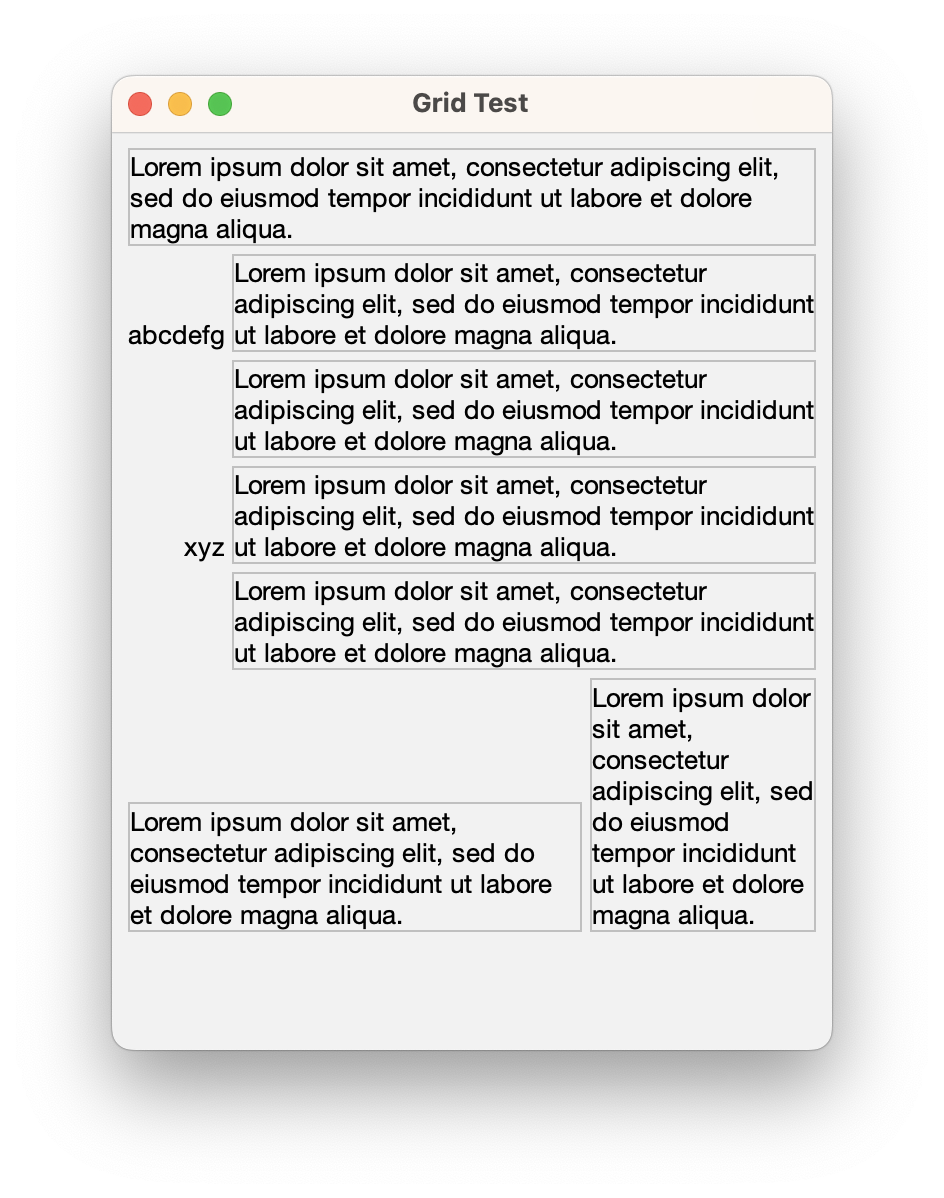
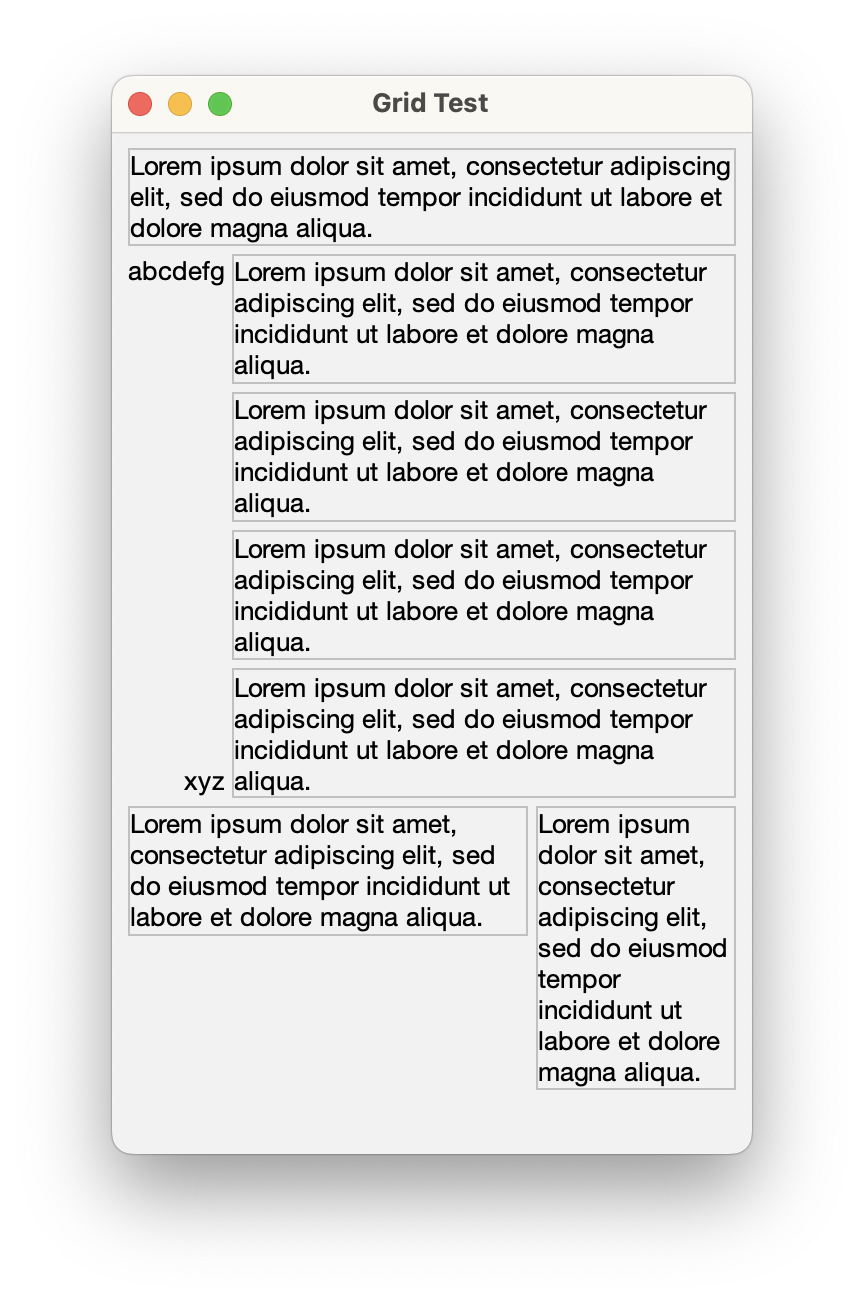
Update grid example.

Changed region(s): [[0.0938, 0.0618, 0.9062, 0.8957]]

diff --git a/sierra-test/src/main/java/org/httprpc/sierra/GridTest.java b/sierra-test/src/main/java/org/httprpc/sierra/GridTest.java
@@ -43,7 +43,6 @@ public class GridTest extends JFrame implements Runnable {
     public void run() {
         Consumer<TextPane> textPaneStyle = textPane -> {
             textPane.setWrapText(true);
-            textPane.setVerticalAlignment(VerticalAlignment.BOTTOM);
             textPane.setBorder(new MatteBorder(1, 1, 1, 1, Color.LIGHT_GRAY));
         };
 
@@ -62,8 +61,8 @@ public class GridTest extends JFrame implements Runnable {
                 row(true,
                     cell(new JLabel("xyz")).with(labelStyle),
                     column(4,
-                        cell(new TextPane(TEXT)).with(textPaneStyle),
-                        cell(new TextPane(TEXT)).with(textPaneStyle)
+                        cell(new TextPane(TEXT)).with(textPaneStyle, textPane -> textPane.setVerticalAlignment(VerticalAlignment.CENTER)),
+                        cell(new TextPane(TEXT)).with(textPaneStyle, textPane -> textPane.setVerticalAlignment(VerticalAlignment.BOTTOM))
                     ).weightBy(1.0)
                 )
             ),

diff --git a/README.md b/README.md
@@ -108,7 +108,7 @@ Demonstrates grid alignment.
 
 [GridTest.java](https://github.com/HTTP-RPC/Sierra/blob/master/sierra-test/src/main/java/org/httprpc/sierra/GridTest.java)
 
-<img src="README/grid.png" width="472px"/>
+<img src="README/grid.png" width="432px"/>
 
 [AlignmentTest.java](https://github.com/HTTP-RPC/Sierra/blob/master/sierra-test/src/main/java/org/httprpc/sierra/AlignmentTest.java)
 
